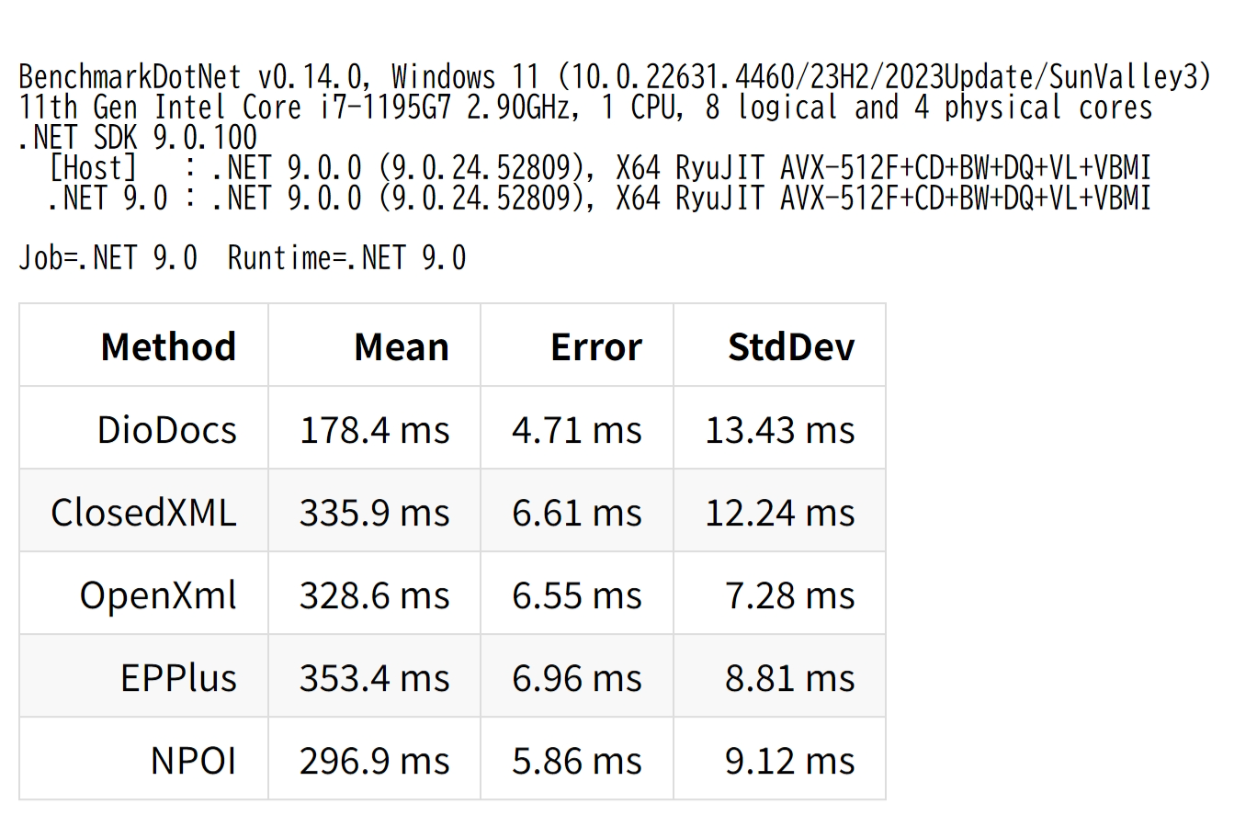
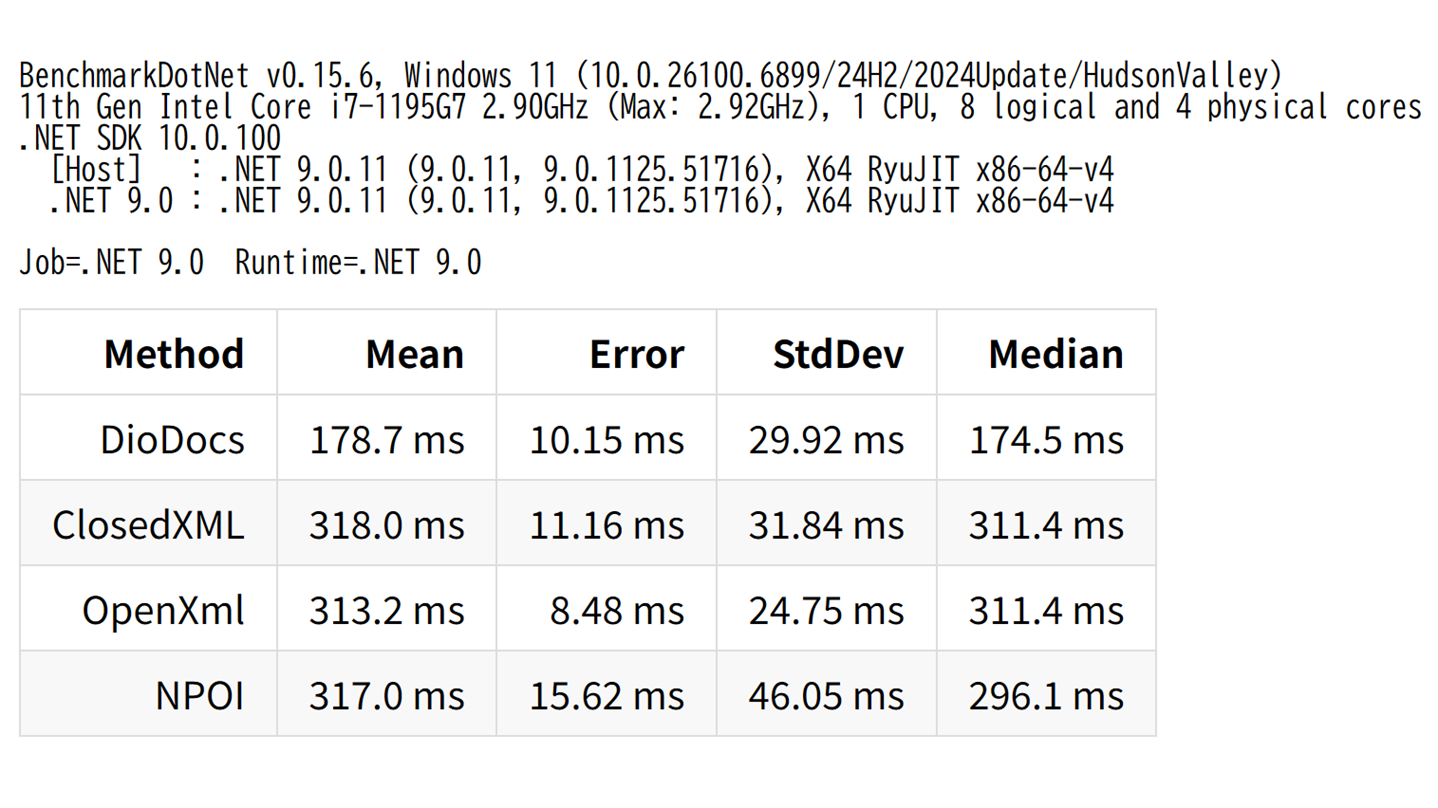
.NETと各ライブラリのバージョンを更新

diff --git a/DioDocsBenchmarkApp1/Benchmark.cs b/DioDocsBenchmarkApp1/Benchmark.cs
@@ -9,141 +9,141 @@ using NPOI.XSSF.UserModel;
 using OfficeOpenXml;
 using System.IO;
 
-namespace DioDocsBenchmarkApp1
+namespace DioDocsBenchmarkApp1;
+
+public class MyConfig : ManualConfig
 {
-    public class MyConfig : ManualConfig
+    public MyConfig()
     {
-        public MyConfig()
+        WithOptions(ConfigOptions.DisableOptimizationsValidator);
+    }
+}
+
+[Config(typeof(MyConfig))]
+//[SimpleJob(RuntimeMoniker.Net90)] // .NET 9
+[SimpleJob(RuntimeMoniker.Net10_0)] // .NET 10
+public class Benchmark
+{
+    [GlobalSetup]
+    public static void Setup()
+    {
+        GrapeCity.Documents.Excel.Workbook.SetLicenseKey("製品版またはトライアル版のライセンスキーを入力");
+        // https://epplussoftware.com/en/Home/GettingStartedCommunityLicense
+        //ExcelPackage.License.SetNonCommercialPersonal("My Name");
+    }
+
+    private const int ColumnNum = 100;
+    private const int RowNum = 1000;
+
+    [Benchmark]
+    public void DioDocs()
+    {
+        var workbook = new GrapeCity.Documents.Excel.Workbook();
+        var worksheet = workbook.ActiveSheet;
+        for (var i = 1; i <= ColumnNum; i++)
         {
-            WithOptions(ConfigOptions.DisableOptimizationsValidator);
+            for (var j = 1; j <= RowNum; j++)
+            {
+                worksheet.Range[i, j].Value = "Hello World!" + i.ToString() + j.ToString();
+            }
+        }
+
+        workbook.Save(Stream.Null);
+    }
+
+    [Benchmark]
+    public void ClosedXML()
+    {
+        using (var workbook = new XLWorkbook())
+        {
+            var worksheet = workbook.Worksheets.Add("Sheet1");
+            for (var i = 1; i <= ColumnNum; i++)
+            {
+                for (var j = 1; j <= RowNum; j++)
+                {
+                    worksheet.Cell(i, j).Value = "Hello World!" + i.ToString() + j.ToString();
+                }
+            }
+
+            workbook.SaveAs(Stream.Null);
         }
     }
 
-    [Config(typeof(MyConfig))]
-    [SimpleJob(RuntimeMoniker.Net90)] // .NET 9
-    //[SimpleJob(RuntimeMoniker.Net80)] // .NET 8
-    public class Benchmark
+
+    [Benchmark]
+    public void OpenXml()
     {
-        [GlobalSetup]
-        public static void Setup() => GrapeCity.Documents.Excel.Workbook.SetLicenseKey("製品版またはトライアル版のライセンスキーを入力");
-
-        private const int ColumnNum = 100;
-        private const int RowNum = 1000;
-
-        [Benchmark]
-        public void DioDocs()
+        using (var spreadsheetDocument =
+            SpreadsheetDocument.Create(Stream.Null, SpreadsheetDocumentType.Workbook))
         {
-            var workbook = new GrapeCity.Documents.Excel.Workbook();
-            var worksheet = workbook.ActiveSheet;
+            var workbookpart = spreadsheetDocument.AddWorkbookPart();
+            workbookpart.Workbook = new DocumentFormat.OpenXml.Spreadsheet.Workbook();
+
+            var worksheetPart = workbookpart.AddNewPart<WorksheetPart>();
+            var sheetData = new SheetData();
+            worksheetPart.Worksheet = new Worksheet(sheetData);
+
+            var sheets = spreadsheetDocument.WorkbookPart.Workbook.AppendChild(new Sheets());
+
+            var sheet = new Sheet()
+            {
+                Id = spreadsheetDocument.WorkbookPart.GetIdOfPart(worksheetPart),
+                SheetId = 1,
+                Name = "Sheet1"
+            };
+            sheets.Append(sheet);
+
             for (var i = 1; i <= ColumnNum; i++)
             {
                 for (var j = 1; j <= RowNum; j++)
                 {
-                    worksheet.Range[i, j].Value = "Hello World!" + i.ToString() + j.ToString();
-                    //worksheet.Range[i, j].Value = "Hello World!";
-                }
-            }
-
-            workbook.Save(Stream.Null);
-        }
-
-        [Benchmark]
-        public void ClosedXML()
-        {
-            using (var workbook = new XLWorkbook())
-            {
-                var worksheet = workbook.Worksheets.Add("Sheet1");
-                for (var i = 1; i <= ColumnNum; i++)
-                {
-                    for (var j = 1; j <= RowNum; j++)
+                    var row = new Row();
+                    var cell = new Cell
                     {
-                        worksheet.Cell(i, j).Value = "Hello World!" + i.ToString() + j.ToString();
-                        //worksheet.Cell(i, j).Value = "Hello World!";
-                    }
+                        DataType = CellValues.String,
+                        CellValue = new CellValue("Hello World!" + i.ToString() + j.ToString())
+                    };
+                    row.Append(cell);
+                    sheetData.Append(row);
                 }
-
-                workbook.SaveAs(Stream.Null);
             }
+
+            workbookpart.Workbook.Save();
+
+            spreadsheetDocument.Dispose();
         }
+    }
 
+    //[Benchmark]
+    //public void EPPlus()
+    //{
+    //    using (var package = new ExcelPackage())
+    //    {
+    //        var worksheet = package.Workbook.Worksheets.Add("Sheet1");
+    //        for (var i = 1; i <= ColumnNum; i++)
+    //        {
+    //            for (var j = 1; j <= RowNum; j++)
+    //            {
+    //                worksheet.Cells[i, j].Value = "Hello World!" + i.ToString() + j.ToString();
+    //                //worksheet.Cells[i, j].Value = "Hello World!";
+    //            }
+    //        }
+    //        package.SaveAs(Stream.Null);
+    //    }
+    //}
 
-        [Benchmark]
-        public void OpenXml()
+    [Benchmark]
+    public void NPOI()
+    {
+        var workbook = new XSSFWorkbook();
+        var worksheet = workbook.CreateSheet("Sheet1");
+        for (var i = 1; i <= ColumnNum; i++)
         {
-            using (var spreadsheetDocument =
-                SpreadsheetDocument.Create(Stream.Null, SpreadsheetDocumentType.Workbook))
+            for (var j = 1; j <= RowNum; j++)
             {
-                var workbookpart = spreadsheetDocument.AddWorkbookPart();
-                workbookpart.Workbook = new DocumentFormat.OpenXml.Spreadsheet.Workbook();
-
-                var worksheetPart = workbookpart.AddNewPart<WorksheetPart>();
-                var sheetData = new SheetData();
-                worksheetPart.Worksheet = new Worksheet(sheetData);
-
-                var sheets = spreadsheetDocument.WorkbookPart.Workbook.AppendChild(new Sheets());
-
-                var sheet = new Sheet()
-                {
-                    Id = spreadsheetDocument.WorkbookPart.GetIdOfPart(worksheetPart),
-                    SheetId = 1,
-                    Name = "Sheet1"
-                };
-                sheets.Append(sheet);
-
-                for (var i = 1; i <= ColumnNum; i++)
-                {
-                    for (var j = 1; j <= RowNum; j++)
-                    {
-                        var row = new Row();
-                        var cell = new Cell
-                        {
-                            DataType = CellValues.String,
-                            CellValue = new CellValue("Hello World!" + i.ToString() + j.ToString())
-                            //CellValue = new CellValue("Hello World!")
-                        };
-                        row.Append(cell);
-                        sheetData.Append(row);
-                    }
-                }
-
-                workbookpart.Workbook.Save();
-
-                spreadsheetDocument.Dispose();
+                worksheet.CreateRow(i).CreateCell(j).SetCellValue("Hello World!" + i.ToString() + j.ToString());
             }
         }
-
-        [Benchmark]
-        public void EPPlus()
-        {
-            using (var package = new ExcelPackage())
-            {
-                var worksheet = package.Workbook.Worksheets.Add("Sheet1");
-                for (var i = 1; i <= ColumnNum; i++)
-                {
-                    for (var j = 1; j <= RowNum; j++)
-                    {
-                        worksheet.Cells[i, j].Value = "Hello World!" + i.ToString() + j.ToString();
-                        //worksheet.Cells[i, j].Value = "Hello World!";
-                    }
-                }
-                package.SaveAs(Stream.Null);
-            }
-        }
-
-        [Benchmark]
-        public void NPOI()
-        {
-            var workbook = new XSSFWorkbook();
-            var worksheet = workbook.CreateSheet("Sheet1");
-            for (var i = 1; i <= ColumnNum; i++)
-            {
-                for (var j = 1; j <= RowNum; j++)
-                {
-                    worksheet.CreateRow(i).CreateCell(j).SetCellValue("Hello World!" + i.ToString() + j.ToString());
-                    //worksheet.CreateRow(i).CreateCell(j).SetCellValue("Hello World!");
-                }
-            }
-            workbook.Write(Stream.Null);
-        }
+        workbook.Write(Stream.Null);
     }
 }

diff --git a/DioDocsBenchmarkApp1/Program.cs b/DioDocsBenchmarkApp1/Program.cs
@@ -2,18 +2,9 @@
 using BenchmarkDotNet.Configs;
 using BenchmarkDotNet.Running;
 using BenchmarkDotNet.Validators;
+using DioDocsBenchmarkApp1;
 using System;
 using System.Linq;
 
-namespace DioDocsBenchmarkApp1
-{
-    class Program
-    {
-        static void Main(string[] args)
-        {
-            var summary = BenchmarkRunner.Run<Benchmark>();
-            Console.ReadKey();
-        }
-    }
-
-}
+var summary = BenchmarkRunner.Run<Benchmark>();
+Console.ReadKey();

diff --git a/README.md b/README.md
@@ -1,9 +1,9 @@
 # DioDocsBenchmarkApp1
-.NET 9でDioDocs for Excelのベンチマークを確かめてみる
+.NET 10でDioDocs for Excelのベンチマークを確かめてみる
 
-https://devlog.mescius.jp/diodocs-dotnet9-benchmark/
+https://devlog.mescius.jp/diodocs-dotnet10-benchmark/
 
-![.NET 8で測定](https://github.com/MESCIUSJP/DioDocsBenchmarkApp1/blob/master/result-dotnet9-update.png)
+![.NET 8で測定](https://github.com/MESCIUSJP/DioDocsBenchmarkApp1/blob/master/result-dotnet10-update.png)
 
-![.NET 6で測定](https://github.com/MESCIUSJP/DioDocsBenchmarkApp1/blob/master/result-dotnet8-update.png)
+![.NET 6で測定](https://github.com/MESCIUSJP/DioDocsBenchmarkApp1/blob/master/result-dotnet9-update.png)
 
